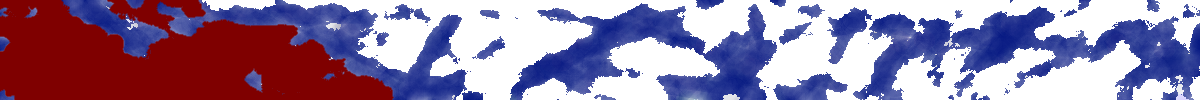
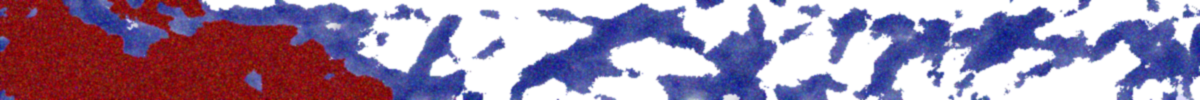
Update Schema

Changed region(s): [[0.0, 0.0, 1.0, 1.0], [0.8325, 0.0, 0.8633, 0.03]]

diff --git a/index.html b/index.html
@@ -4,6 +4,9 @@
 <head>
      <meta charset="UTF-8">
      <meta name="viewport" content="width=device-width, initial-scale=1.0">
+     <meta name="description" content="☀The Ark Bible App is an online searchable Bible App. It offers the Bible in many different versions and languages, and a 365 day chronological reading plan.">
+     <meta name="keywords" content="Ark Bible, The Ark Bible, Bible, Bible App, Bible Archive, Bible Reference, Bible Study, Free Bible, Read the Bible, Searchable Bible, Search The Bible, Strong's Versions, Study Bible, Study The Bible, King James Version, KJV, Twenty-First Century Version, TWF">
+
      <base href="./">
      <link rel="manifest" href="manifest.json">
 
@@ -20,6 +23,89 @@
      <script async src="code/js/utilities.js"></script>
      <script async src="code/js/index.js"></script>
      <script defer src="code/js/lateload.js"></script>
+
+     <script type="application/ld+json">
+          {
+               "@context": "https://schema.org",
+               "@graph": [
+                    {
+                         "@type": "ImageObject",
+                         "@id": "https://thearkbible.com/images/cavalry.png",
+                         "url": "https://thearkbible.com/images/cavalry.png",
+                         "width": 1200,
+                         "height": 628
+                    },
+                    {
+                         "@type": "ImageObject",
+                         "@id": "https://thearkbible.com/images/bible.png",
+                         "url": "https://thearkbible.com/images/bible.png",
+                         "width": 1200,
+                         "height": 1200
+                    },
+                    {
+                         "@type": "WebSite",
+                         "@id": "https://thearkbible.com/index.html",
+                         "name": "The Ark Bible",
+                         "url": "https://thearkbible.com",
+                         "about": "☀The Ark Bible App is an online searchable Bible App. It offers many different versions of the Bible in many different languages. It also offers other functionality, including a 365 day chronological reading plan, a computer text to speech synthesis to listen, so you can listen to the Bible, and a comparison function, so you can compare two different versions of the Bible on the same page.",
+                         "image": [
+                              "https://thearkbible.com/images/cavalry.png",
+                              "https://thearkbible.com/images/bible.png"
+                         ]
+                    },
+                    {
+                         "@type": "WebApplication",
+                         "@id": "https://thearkbible.com/index.html",
+                         "name": "The Ark Bible",
+                         "applicationCategory": "Religion",
+                         "operatingSystem": "Web",
+                         "browserRequirements": "Modern browser with PWA support",
+                         "url": "https://thearkbible.com",
+                         "about": "☀The Ark Bible App is an online searchable Bible App. It offers many different versions of the Bible in many different languages. It also offers other functionality, including a 365 day chronological reading plan, a computer text to speech synthesis to listen, so you can listen to the Bible, and a comparison function, so you can compare two different versions of the Bible on the same page.",
+                         "isAccessibleForFree": true,
+                         "image": [
+                              "https://thearkbible.com/images/cavalry.png",
+                              "https://thearkbible.com/images/bible.png"
+                         ]
+                    },
+                    {
+                         "@type": "CreativeWork",
+                         "@id": "https://thearkbible.com/chron.html",
+                         "name": "The Ark Bible 365 Day Chronological Reading Plan",
+                         "creator": {
+                              "@type": "Organization",
+                              "name": "New Hope Ministries"
+                         },
+                         "about": "📜Read the Bible the way the events historically happened in chronological order",
+                         "isAccessibleForFree": true,
+                         "image": [
+                              "https://thearkbible.com/images/cavalry.png",
+                              "https://thearkbible.com/images/bible.png"
+                         ]
+                    },
+                    {
+                         "@type": "Book",
+                         "@id": "https://thearkbible.com/comp.html",
+                         "name": "The Ark Bible",
+                         "author": {
+                              "@type": "Person",
+                              "name": "Various Authors"
+                         },
+                         "publisher": {
+                              "@type": "Organization",
+                              "name": "New Hope Ministries"
+                         },
+                         "about": "☀The Ark Bible App is an online searchable Bible App. It offers many different versions of the Bible in many different languages. It also offers other functionality, including a 365 day chronological reading plan, a computer text to speech synthesis to listen, so you can listen to the Bible, and a comparison function, so you can compare two different versions of the Bible on the same page.",
+                         "isAccessibleForFree": true,
+                         "image": [
+                              "https://thearkbible.com/images/cavalry.png",
+                              "https://thearkbible.com/images/bible.png"
+                         ]
+                    }
+               ]
+          }
+     </script>
+
      <script>
           document.addEventListener("DOMContentLoaded", function () {
                setTimeout(function () {
@@ -37,14 +123,14 @@
 
      <div id="id-headerTitle" class="cs-header cs-title" onclick="openBoxes(event)">
 
-          <span class="cs-logoTitle" onclick="aClick(goHome)" </span>The Ark Bible</span>
+          <span class="cs-logoTitle" onclick="aClick(goHome)">The Ark Bible</span>
 
-          <div id="id-search" class="cs-search" onclick="openSearch(event)">
+          <div id="id-search" class="cs-search" onclick="openSearch(event)" data-nosnippet>
                <div class="cs-magnifier">⚲</div>
           </div>
      </div>
 
-     <div id="id-header" class="cs-header cs-banner" onclick="openBoxes(event)">
+     <div id="id-header" class="cs-header cs-banner" onclick="openBoxes(event)" data-nosnippet>
           <div id="id-menu" class="cs-menu">
                <div class="cs-menu1">
                     <button id="id-MenuBtn1" class="cs-menuBtn cs-menuBtns" onclick="openBoxes(event)"
@@ -67,21 +153,21 @@
                <div id="id-page" class="cs-page" onclick="unHighlight()"></div>
 
                <br><br><br>
-               <div class="cs-bottomLine">
+               <div class="cs-bottomLine" data-nosnippet>
                     <div id="id-bottomLastLine" class="cs-bottomLastLine" onclick="lastChapter()">‹Last</div>
                     <div id="id-bottomTitleLine" class="cs-bottomTitleLine">Genesis 1</div>
                     <div id="id-bottomNextLine" class="cs-bottomNextLine" onclick="nextChapter()">Next ›</div>
                </div>
           </div>
 
-          <div id="id-readRandom" class="cs-readRandom">
+          <div id="id-readRandom" class="cs-readRandom" data-nosnippet>
                <br><br>
                <div id="id-randomChapter" class="cs-randomChapter" onclick="readRandomChapter()">
                     Read a Random Chapter
                </div>
           </div>
 
-          <div id="id-searchContainer" class="cs-searchContainer">
+          <div id="id-searchContainer" class="cs-searchContainer" data-nosnippet>
                <br>
                <h2 class="cs-searchTitle">Search Bible Verses</span></h2>
                <div class="cs-searchCase">
@@ -103,7 +189,7 @@
 
           <br><br><br><br>
           <div class="cs-bottom">
-               <div id="id-settings" class="cs-settings">
+               <div id="id-settings" class="cs-settings" data-nosnippet>
 
                     <div id="id-col1" class="cs-glossary">
                          <h4 class="cs-glossaryHeaders">Overview</h4>
@@ -164,19 +250,19 @@
                </div>
 
                <br>
-               <a onclick="aClick('https://bibleask.org/')" target="_blank" class="cs-chat">
+               <a onclick="aClick('https://bibleask.org/')" target="_blank" class="cs-chat" data-nosnippet>
                     BibleAsk AI Research Tool and Chat Bot
                </a>
                <br>
-               <a onclick="aClick('comp.html')" target="_blank" class="cs-chat">
+               <a onclick="aClick('comp.html')" target="_blank" class="cs-chat" data-nosnippet>
                     Compare Bible Versions
                </a>
                <br id="id-brListen">
-               <a id="id-listen" onclick="synthVoice()" target="_blank" class="cs-chat">
+               <a id="id-listen" onclick="synthVoice()" target="_blank" class="cs-chat" data-nosnippet>
                     Listen to the Bible
                </a>
                <br>
-               <a id="id-readChronological" class="cs-readChronological" onclick="readChronological()">
+               <a id="id-readChronological" class="cs-readChronological" onclick="readChronological()" data-nosnippet>
                     365 Day Chronological Reading Plan
                </a>
                <br>
@@ -201,7 +287,7 @@
           </div>
      </div>
 
-     <div id="id-end" class="cs-end">
+     <div id="id-end" class="cs-end" data-nosnippet>
           <br>
           <p id="id-endLine" class="cs-endLine">
                Click OK if you agree to allow The Ark Bible app to store performance files locally. The Ark Bible app
@@ -222,11 +308,11 @@
 
      </div>
 
-     <div id="id-versions" class="cs-versions"></div>
-     <div id="id-languages" class="cs-languages"></div>
-     <div id="id-books" class="cs-books"></div>
-     <div id="id-chapters" class="cs-chapters"></div>
-     <div id="id-verses" class="cs-verses"></div>
+     <div id="id-versions" class="cs-versions" data-nosnippet></div>
+     <div id="id-languages" class="cs-languages" data-nosnippet></div>
+     <div id="id-books" class="cs-books" data-nosnippet></div>
+     <div id="id-chapters" class="cs-chapters" data-nosnippet></div>
+     <div id="id-verses" class="cs-verses" data-nosnippet></div>
 </body>
 
 </html>

diff --git a/code/css/html.css b/code/css/html.css
@@ -8,7 +8,7 @@ p { font-size: 1.06rem; }
 .cs-pagesBody { background-color: var(--mainBackground); }
 .cs-page { position: relative; top: 3.5em; text-align: justify; margin: auto; width: 80%; }
 
-.cs-fixBanner { position: fixed; left: 0; top:0; background-color: #eeeeee; width: 100%; z-index: 1000; }
+.cs-fixBanner { position: fixed; left: 0; top:0; background-color: #eeeeee; width: 100%; z-index: 1000; border-bottom: 5px solid dimgray; }
 .cs-imgBanner { position: relative; top: 0; left: 0; height: 4em; width: 100%; z-index: 1010;}
 .cs-imgLogo { position: absolute; top: -.15em; left: .5em; z-index: 1011; }
 .cs-iconA { cursor: pointer; }

diff --git a/qr.html b/qr.html
@@ -28,10 +28,9 @@
                <img async src="images/icons/qr-logo.png" class="cs-iconLink" title="Home - The Ark Bible Cross Icon" alt="Home - The Ark Bible Cross Icon">
           </a>
      </div>
-     <div class="cs-page">
+     <div class="cs-page" style="top: .5em;">
 
           <h3 class="cs-h2">The Ark Bible QR Code</h3>
-
           <h3 class="cs-h2"><a href="https://thearkbible.com">https://thearkbible.com</a></h3>
           <br>
 
